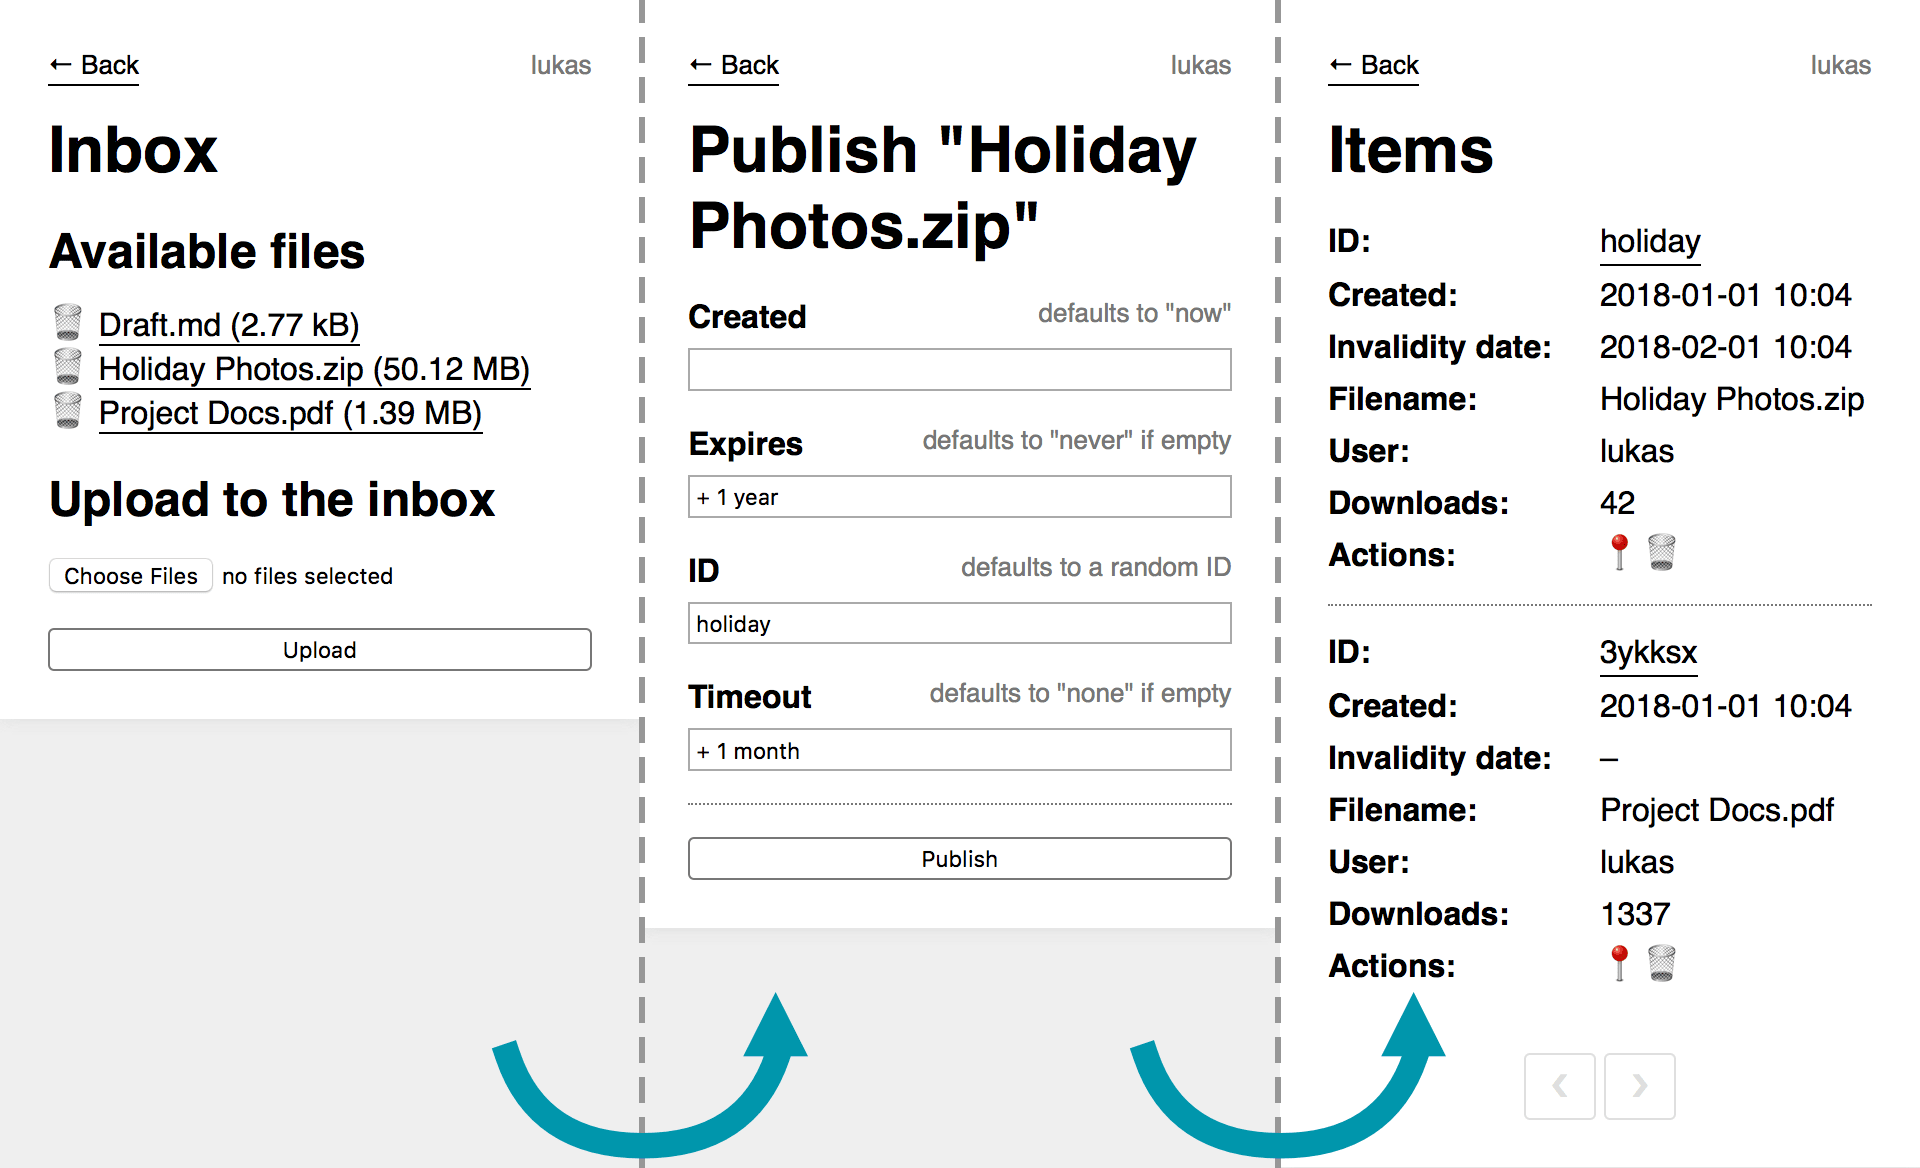
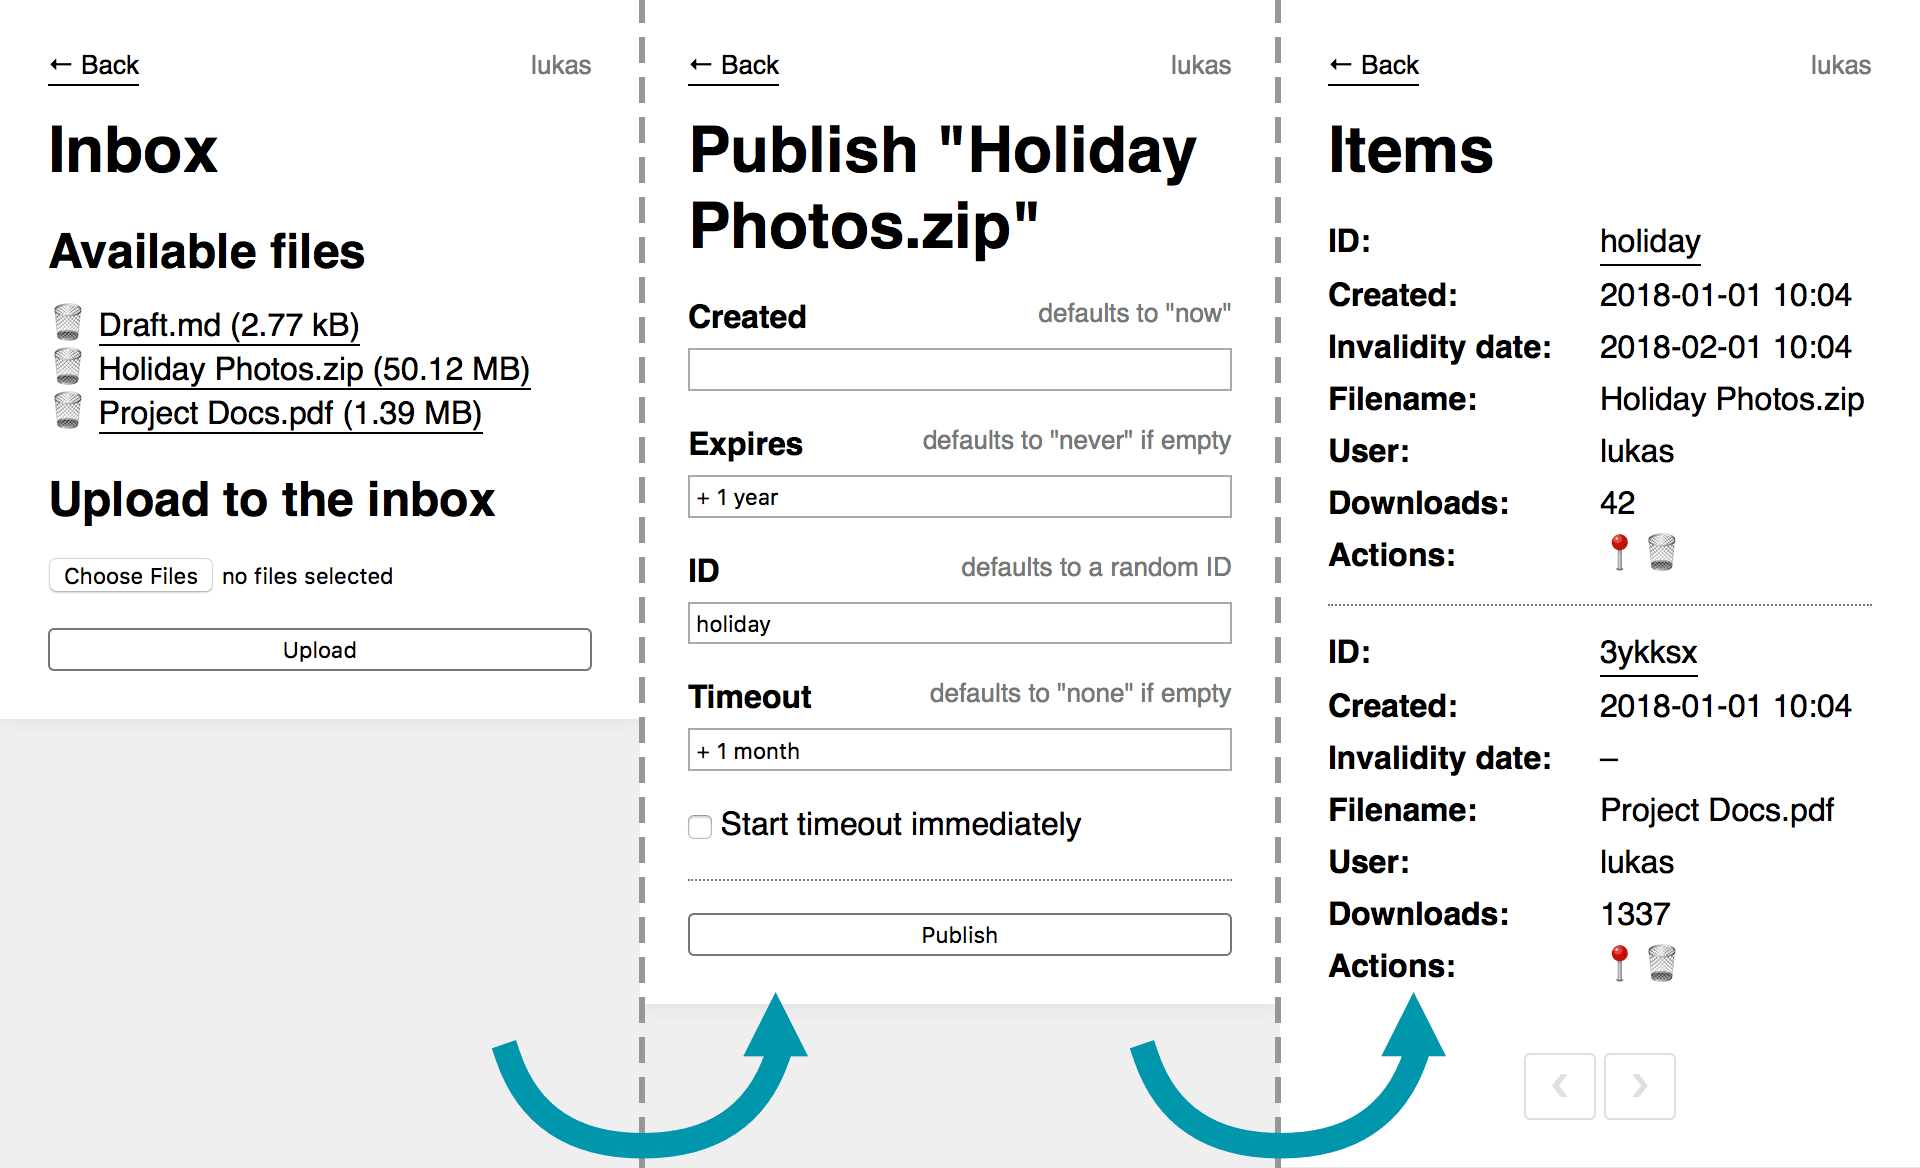
Timeout: Don’t start immediately by default

Changed region(s): [[0.375, 0.6781, 0.5625, 0.7397], [0.3438, 0.7705, 0.6562, 0.8322]]

diff --git a/etc/admin.css b/etc/admin.css
@@ -175,7 +175,7 @@ form {
   }
 }
 
-label {
+label:not(.label--checkbox) {
   margin: 1rem 0 0.25rem;
   display: block;
   font-weight: bold;
@@ -187,6 +187,10 @@ label small {
   margin-left: 1.5rem;
 
   color: #777;
+}
+
+.input-wrapper {
+  margin-top: 1rem;
 }
 
 input[type="text"], input[type="submit"] {

diff --git a/tests/Shareable/InboxTest.php b/tests/Shareable/InboxTest.php
@@ -307,6 +307,87 @@ class InboxTest extends TestCase
     /**
      * @covers ::publish
      */
+    public function testPublishImmediateTimeout1()
+    {
+        $_SERVER['REQUEST_METHOD'] = 'POST';
+        $_POST = [
+            'created'             => '2018-01-02',
+            'expires'             => '',
+            'id'                  => 'new-id',
+            'timeout'             => 3600,
+            'timeout-immediately' => 'true',
+            'user'                => 'admin'
+        ];
+
+        $response = $this->inbox->publish('new-file.txt');
+        $this->assertEquals([
+            'activity'  => strtotime('2018-01-02'),
+            'created'   => strtotime('2018-01-02'),
+            'downloads' => 0,
+            'expires'   => false,
+            'filename'  => 'new-file.txt',
+            'timeout'   => 3600,
+            'user'      => 'anonymous'
+        ], $this->app->items()->get('new-id')->toArray());
+    }
+
+    /**
+     * @covers ::publish
+     */
+    public function testPublishImmediateTimeout2()
+    {
+        $_SERVER['REQUEST_METHOD'] = 'POST';
+        $_POST = [
+            'created'             => '',
+            'expires'             => '',
+            'id'                  => 'new-id',
+            'timeout'             => 3600,
+            'timeout-immediately' => 'true',
+            'user'                => 'admin'
+        ];
+
+        $response = $this->inbox->publish('new-file.txt');
+        $this->assertEquals([
+            'activity'  => time(),
+            'created'   => time(),
+            'downloads' => 0,
+            'expires'   => false,
+            'filename'  => 'new-file.txt',
+            'timeout'   => 3600,
+            'user'      => 'anonymous'
+        ], $this->app->items()->get('new-id')->toArray());
+    }
+
+    /**
+     * @covers ::publish
+     */
+    public function testPublishImmediateTimeout3()
+    {
+        $_SERVER['REQUEST_METHOD'] = 'POST';
+        $_POST = [
+            'created'             => '2018-01-02',
+            'expires'             => '',
+            'id'                  => 'new-id',
+            'timeout'             => 3600,
+            'timeout-immediately' => 'gibberish',
+            'user'                => 'admin'
+        ];
+
+        $response = $this->inbox->publish('new-file.txt');
+        $this->assertEquals([
+            'activity'  => null,
+            'created'   => strtotime('2018-01-02'),
+            'downloads' => 0,
+            'expires'   => false,
+            'filename'  => 'new-file.txt',
+            'timeout'   => 3600,
+            'user'      => 'anonymous'
+        ], $this->app->items()->get('new-id')->toArray());
+    }
+
+    /**
+     * @covers ::publish
+     */
     public function testPublishInvalidCreated()
     {
         $this->expectException(Exception::class);
@@ -339,6 +420,27 @@ class InboxTest extends TestCase
             'id'      => 'new-id',
             'timeout' => 'some gibberish',
             'user'    => 'admin'
+        ];
+
+        $this->inbox->publish('valid.txt');
+    }
+
+    /**
+     * @covers ::publish
+     */
+    public function testPublishInvalidTimeoutImmediate()
+    {
+        $this->expectException(Exception::class);
+        $this->expectExceptionMessage('Cannot start timeout immediately if no timeout is set');
+
+        $_SERVER['REQUEST_METHOD'] = 'POST';
+        $_POST = [
+            'created'             => '2018-01-02',
+            'expires'             => '',
+            'id'                  => 'new-id',
+            'timeout'             => '',
+            'timeout-immediately' => 'true',
+            'user'                => 'admin'
         ];
 
         $this->inbox->publish('valid.txt');

diff --git a/tests/Shareable/ItemsTest.php b/tests/Shareable/ItemsTest.php
@@ -98,7 +98,7 @@ class ItemsTest extends TestCase
         $this->assertFileExists($this->itemsPath . '/definitely_invalid.json');
         $this->assertFileNotExists($this->itemsPath . '/expired.json');
         $this->assertFileExists($this->itemsPath . '/invalid-extension.txt');
-        $this->assertFileNotExists($this->itemsPath . '/no-activity.json');
+        $this->assertFileExists($this->itemsPath . '/no-activity.json');
         $this->assertFileExists($this->itemsPath . '/no-expiry.json');
         $this->assertFileExists($this->itemsPath . '/not-started.json');
         $this->assertFileNotExists($this->itemsPath . '/only-expiry.json');
@@ -106,7 +106,7 @@ class ItemsTest extends TestCase
         $this->assertFileExists($this->itemsPath . '/valid.json');
         $this->assertFileExists($this->filesPath . '/.i-am-invisible');
         $this->assertFileNotExists($this->filesPath . '/expired.txt');
-        $this->assertFileNotExists($this->filesPath . '/no-activity.txt');
+        $this->assertFileExists($this->filesPath . '/no-activity.txt');
         $this->assertFileExists($this->filesPath . '/no-expiry.txt');
         $this->assertFileNotExists($this->filesPath . '/only.txt');
         $this->assertFileExists($this->filesPath . '/orphaned.abc.txt');

diff --git a/tests/Shareable/ItemTest.php b/tests/Shareable/ItemTest.php
@@ -129,8 +129,8 @@ class ItemTest extends TestCase
         $this->assertEquals('2009-05-17', $item->timeout('Y-m-d'));
 
         $item = new Item($this->app, $this->itemsPath . '/no-activity.json');
-        $this->assertEquals(1237246290, $item->timeout());
-        $this->assertEquals('2009-03-16', $item->timeout('Y-m-d'));
+        $this->assertEquals(false, $item->timeout());
+        $this->assertEquals('–', $item->timeout('Y-m-d'));
 
         $item = new Item($this->app, $this->itemsPath . '/no-expiry.json');
         $this->assertEquals(false, $item->timeout());
@@ -303,6 +303,7 @@ class ItemTest extends TestCase
 
         // custom props
         $item = Item::create($this->app, $this->itemsPath, [
+            'activity' => 7899999999,
             'created'  => 7899999999,
             'expires'  => 9999999999,
             'filename' => 'another-test-item',

diff --git a/src/Shareable/Item.php b/src/Shareable/Item.php
@@ -181,17 +181,10 @@ class Item
      */
     public function timeout(string $format = null)
     {
-        if (is_int($this->timeout)) {
-            if (is_int($this->activity)) {
-                // registered activity
-                // -> use that as the base
-                $timeout = $this->activity + $this->timeout;
-            } else {
-                // no registered activity (no downloads)
-                // -> expire the file if the timeout after the creation date passed
-                $timeout = $this->created + $this->timeout;
-            }
+        if (is_int($this->timeout) && is_int($this->activity)) {
+            $timeout = $this->activity + $this->timeout;
         } else {
+            // timeout has not been configured or not been started
             $timeout = false;
         }
 

diff --git a/src/Shareable/Inbox.php b/src/Shareable/Inbox.php
@@ -174,6 +174,17 @@ class Inbox extends Collection
             }
         }
 
+        // start timeout immediately if requested
+        if (isset($props['timeout-immediately']) && $props['timeout-immediately'] === 'true') {
+            // only supported if a timeout is set
+            if (!isset($props['timeout'])) {
+                throw new Exception('Cannot start timeout immediately if no timeout is set');
+            }
+
+            $props['activity'] = $props['created'] ?? time();
+            unset($props['timeout-immediately']);
+        }
+
         // make sure we don't overwrite any existing file
         $filename = static::findFilepath($this->filesPath, $file->getFilename());
 

diff --git a/etc/templates/admin/inbox-file.php b/etc/templates/admin/inbox-file.php
@@ -26,6 +26,11 @@
   <label for="timeout">Timeout <small>defaults to "none" if empty</small></label>
   <input type="text" id="timeout" name="timeout" value="<?= get('timeout') ?? '+ 1 month' ?>">
 
+  <div class="input-wrapper">
+    <input type="checkbox" id="timeout-immediately" name="timeout-immediately" value="true"<?php if (get('timeout-immediately') === 'true'): ?> checked<?php endif ?>>
+    <label for="timeout-immediately" class="label--checkbox">Start timeout immediately</label>
+  </div>
+
   <hr>
 
   <input type="hidden" name="response" value="redirect">
